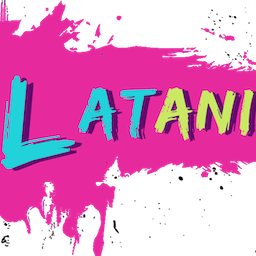
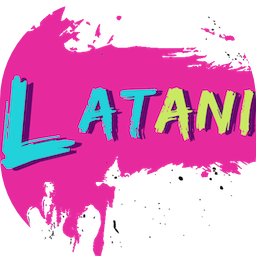
Stop repeated Deno permission prompts on release tasks.

diff --git a/scripts/release.ts b/scripts/release.ts
@@ -1,5 +1,4 @@
-#!/usr/bin/env -S deno run --allow-read=./ --allow-write=./ --allow-run=git
-
+import { buildManifest } from "./build-manifest.ts";
 import { tagFromManifest } from "./tag.ts";
 
 const ROOT = Deno.cwd();
@@ -20,16 +19,6 @@ async function git(args: string[]): Promise<{ code: number; stdout: string }> {
   return { code, stdout: new TextDecoder().decode(stdout).trim() };
 }
 
-async function runBuild(): Promise<void> {
-  const { code } = await new Deno.Command("deno", {
-    args: ["task", "build:manifest"],
-    cwd: ROOT,
-    stdout: "inherit",
-    stderr: "inherit",
-  }).output();
-  if (code !== 0) Deno.exit(code);
-}
-
 function parseArgs(argv: string[]): { message?: string; push: boolean } {
   const push = argv.includes("--push");
   const msgIdx = argv.indexOf("--");
@@ -40,7 +29,7 @@ function parseArgs(argv: string[]): { message?: string; push: boolean } {
 async function main(): Promise<void> {
   const { message, push } = parseArgs(Deno.args);
 
-  await runBuild();
+  await buildManifest();
 
   const dirty = await git(["status", "--porcelain", "--", ...FILES]);
   if (dirty.stdout) {

diff --git a/scripts/build-manifest.ts b/scripts/build-manifest.ts
@@ -1,5 +1,3 @@
-#!/usr/bin/env -S deno run --allow-read=./ --allow-write=./
-
 const root = Deno.cwd();
 const SOURCE = `${root}/src/provider.ts`;
 const MANIFEST = `${root}/manifest.json`;
@@ -81,7 +79,7 @@ function defaultManifest(
   };
 }
 
-async function main(): Promise<void> {
+export async function buildManifest(): Promise<void> {
   if (Deno.args.includes("--help") || Deno.args.includes("-h")) {
     console.log("Usage: deno task build:manifest\nEnv: GITHUB_REPO, GITHUB_REF (tag)");
     Deno.exit(0);
@@ -138,4 +136,6 @@ async function main(): Promise<void> {
   await Deno.writeTextFile(MANIFEST, JSON.stringify(next, null, 2) + "\n");
 }
 
-await main();
+if (import.meta.main) {
+  await buildManifest();
+}

diff --git a/scripts/tag.ts b/scripts/tag.ts
@@ -1,5 +1,3 @@
-#!/usr/bin/env -S deno run --allow-read=./ --allow-run=git
-
 const MANIFEST = `${Deno.cwd()}/manifest.json`;
 
 async function git(args: string[]): Promise<{ code: number; stdout: string }> {